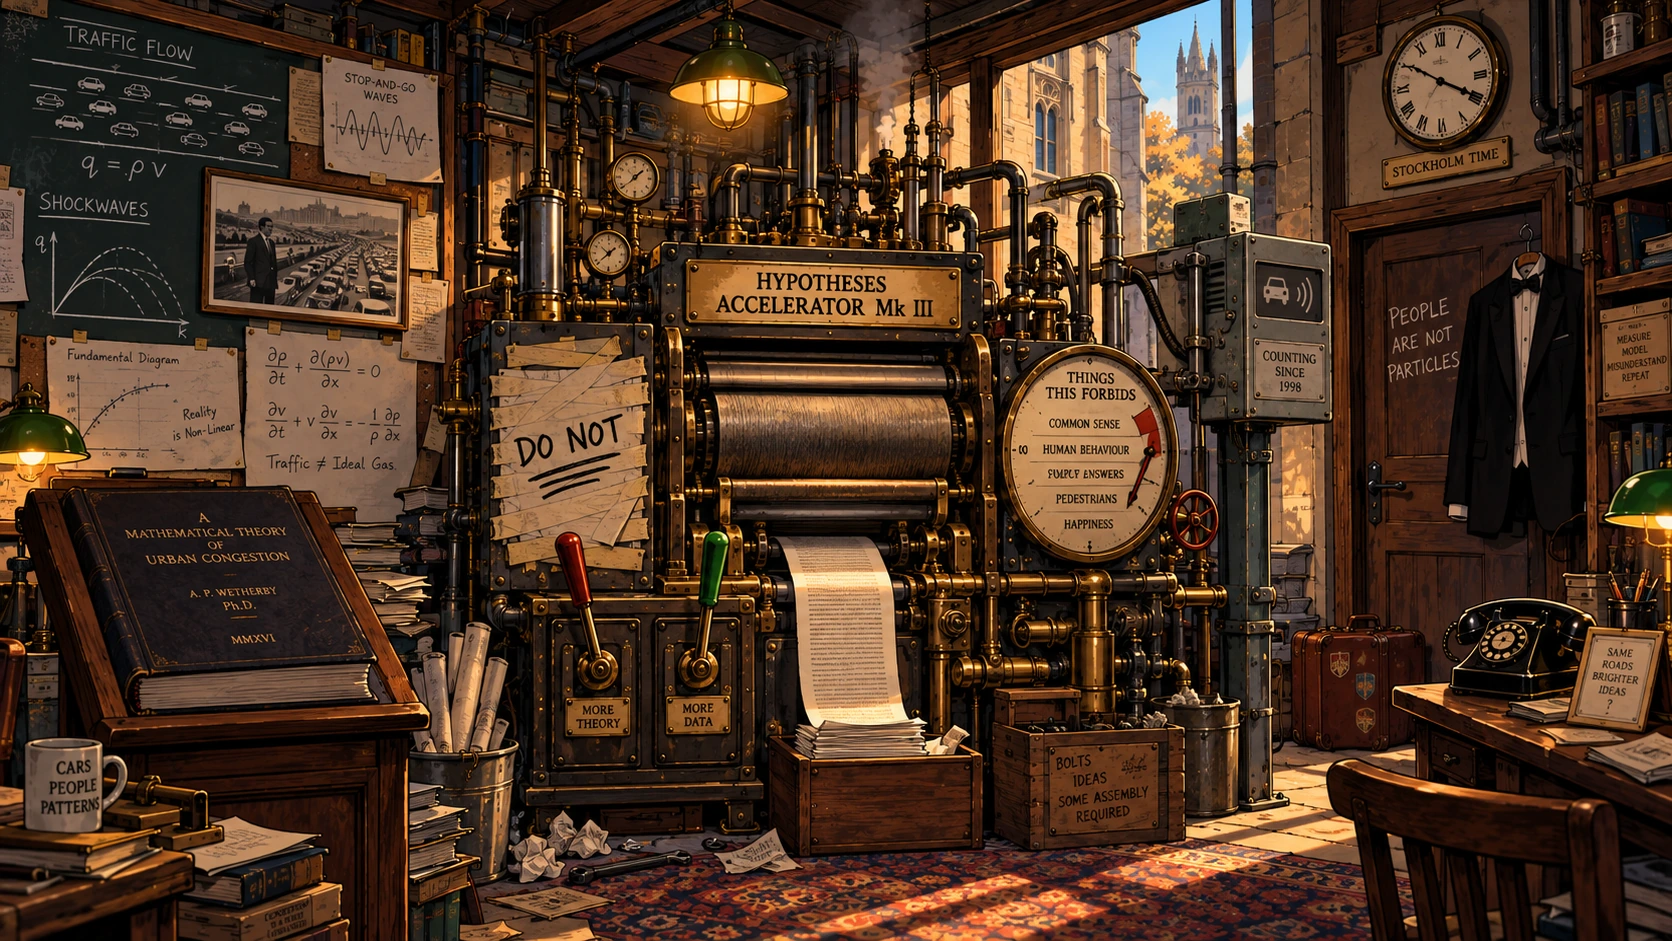
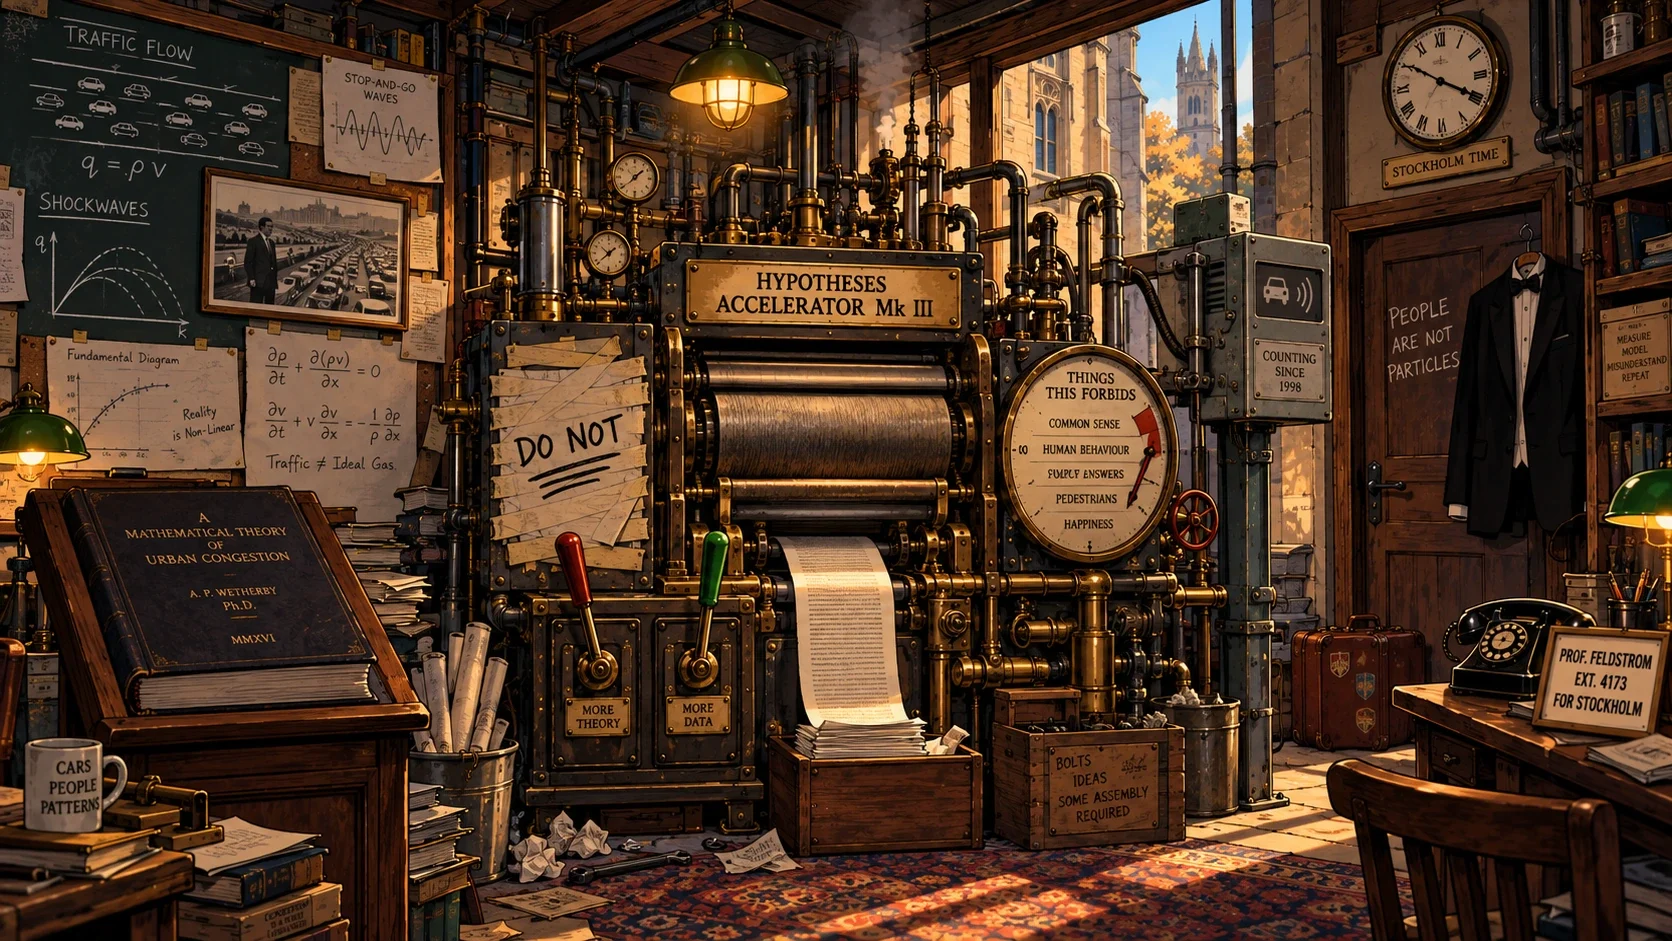
Phones: inventory folds behind a bag button so nothing at the right edge is hidden; Feldstrom's extension painted on the card by his telephone (no more door overlay) and handed over the first time you talk; your own lines are voiced in phone calls
Claude-Session: https://claude.ai/code/session_01NVbNvGwATBDeX3jSoy7jXs

Changed region(s): [[0.9019, 0.6472, 1.0, 0.8013]]

diff --git a/web/the-secret-of-the-codebook.html b/web/the-secret-of-the-codebook.html
@@ -189,6 +189,16 @@
   body.cb-touch .verb-grid{ display:none !important; }
   /* the inventory scrolls, and says so: arrows at whichever end has more (author, 2026-09-26) */
   .room-columns .side-panel{ overscroll-behavior:contain; -webkit-overflow-scrolling:touch; touch-action:pan-y; }
+  /* phones: the inventory folds away behind a bag button, so nothing at the right edge of a room
+     is ever hidden under it (author, 2026-09-26) */
+  .cb-bagbtn{ display:none; }
+  body.cb-touch .cb-bagbtn{ display:flex; position:absolute; z-index:45; right:calc(var(--bx, 0px) + .8%); top:calc(var(--by, 0px) + 13%);
+    align-items:center; gap:4px; padding:6px 10px; border-radius:999px; border:1px solid rgba(240,228,200,.35); cursor:pointer;
+    background:rgba(20,14,9,.72); color:var(--cream); font:700 13px 'JetBrains Mono', monospace; backdrop-filter:blur(4px); }
+  body.cb-touch .cb-bagbtn b{ background:#ffd24a; color:#2a1d10; border-radius:999px; padding:0 6px; font-size:11px; }
+  body.cb-touch .room-columns .side-panel{ opacity:0; pointer-events:none; transform:translateX(24px); transition:transform .22s ease, opacity .22s ease; top:calc(13% + 40px) !important; max-height:calc(87% - 48px) !important; }
+  body.cb-touch.cb-inv-open .room-columns .side-panel{ transform:none; opacity:1; pointer-events:auto; }
+  body.cb-touch.cb-inv-open .cb-bagbtn{ background:#ffd24a; color:#2a1d10; }
   .cb-invarrow{ position:sticky; z-index:3; display:none; width:100%; height:26px; border:0; margin:0; padding:0; cursor:pointer;
     color:#ffd24a; font:700 16px/26px system-ui, sans-serif; background:linear-gradient(rgba(20,14,9,.95), rgba(20,14,9,.55)); border-radius:4px; }
   .cb-invarrow.up{ top:-8px; }
@@ -2891,7 +2901,7 @@
   }
   // The actions each thing really needs, set room by room (ROADMAP 8zx; author: "only show the icons that
   // are really needed"). This table wins over the guess read off the room's code; Tobi is always Talk.
-  var ROOM_VERBS = {"whirlpool":{"prof":"talkto","penjar":"pickup","hourglass":"pickup","usb":"pickup","stamp":"pickup","glassdesk":"pickup","bingocard":"pickup","mug":"lookat","likertdie":"lookat","autograph":"lookat","shelfL":"lookat","shelfR":"lookat","frameL":"lookat","frameR":"lookat","windowL":"lookat","windowR":"lookat","skeleton":"lookat","cork":"lookat","counter":"lookat"},"lecture":{"goffman":"lookat","note":"lookat","phone":"lookat","doodle":"lookat","board":"use","ink":"pickup","prof":"talkto"},"corridor":{"note":"lookat","glass":"lookat","skeleton":"lookat","wanted":"lookat","corkboard":"lookat","chalkboard":"lookat","duck":"pickup","gatedoor":"use","bell":"use"},"pond":{"philosopher":"talkto","coleman":"lookat","plaque":"lookat","swanleft":"lookat","swanright":"lookat"},"library":{"kira":"talkto","conveyor":"lookat use","trolley":"lookat use","catalogue":"use","framed":"lookat","stacks":"lookat pickup","register":"pickup","desk":"pickup use","sign":"lookat"},"hall":{"profg":"talkto","dj":"talkto","djtable":"lookat","ladder":"pickup","dispenser":"use","meter":"use","portraits":"lookat talkto","weber":"lookat talkto","sign":"lookat","clipping":"lookat"},"workshop":{"feldstrom":"talkto","machine":"use","tape":"use","forbids":"lookat","desk":"lookat","extcard":"lookat","thesis":"lookat","diagrams":"lookat"},"seminar":{"board":"use","fellow":"talkto","chairs":"lookat","sign":"lookat"},"surveylab":{"nurse":"talkto","gurney1":"lookat","gurney2":"lookat","gurney3":"lookat","clipboard":"lookat","cabinet":"pickup","die":"pickup","board":"lookat","phone":"lookat use","sign":"lookat","window":"lookat","poster":"lookat"},"ethics":{"keeper":"talkto","chair":"talkto","rep":"talkto","tribunal":"talkto","device":"lookat","table":"pickup","calendar":"pickup","pewright":"pickup","pewleft":"lookat","plaque":"lookat","glass":"lookat"},"mensa":{"herald":"talkto","drum":"use","officer":"use","frame":"use","counters":"talkto","tables":"lookat"},"fieldwork":{"director":"talkto","host":"use","phone":"pickup","podiums":"lookat","board":"lookat","doorbusy":"lookat","doorforgot":"lookat","doorspam":"lookat","doornot":"lookat"},"statsbasement":{"switches":"use","seal":"use","skeptic":"talkto","queue":"talkto","banner":"lookat","board":"lookat","monkeydoor":"use"},"delegation":{"kira":"talkto","record":"use","queue":"talkto","lever":"use","log":"lookat","prof":"talkto"},"bureau":{"clerk":"talkto","counter":"use","conveyor":"lookat","plaques":"lookat","gauge":"lookat"},"psychlab":{"achterberg":"talkto","typist":"talkto","desk":"lookat","typewriters":"lookat","hamlet":"lookat","pinboard":"lookat","cages":"lookat","labdoor":"lookat"},"postersession":{"poster":"use","best":"lookat","posters":"lookat","bins":"lookat","banner":"lookat"},"keynote":{"screen":"lookat","vossberg":"talkto","portraits":"lookat","chat":"lookat"},"writingroom":{"feldstrom":"talkto","registrar":"talkto","kira":"talkto","table":"use","abstract":"use","impact":"lookat","phone":"lookat use"}};
+  var ROOM_VERBS = {"whirlpool":{"prof":"talkto","penjar":"pickup","hourglass":"pickup","usb":"pickup","stamp":"pickup","glassdesk":"pickup","bingocard":"pickup","mug":"lookat","likertdie":"lookat","autograph":"lookat","shelfL":"lookat","shelfR":"lookat","frameL":"lookat","frameR":"lookat","windowL":"lookat","windowR":"lookat","skeleton":"lookat","cork":"lookat","counter":"lookat"},"lecture":{"goffman":"lookat","note":"lookat","phone":"lookat","doodle":"lookat","board":"use","ink":"pickup","prof":"talkto"},"corridor":{"note":"lookat","glass":"lookat","skeleton":"lookat","wanted":"lookat","corkboard":"lookat","chalkboard":"lookat","duck":"pickup","gatedoor":"use","bell":"use"},"pond":{"philosopher":"talkto","coleman":"lookat","plaque":"lookat","swanleft":"lookat","swanright":"lookat"},"library":{"kira":"talkto","conveyor":"lookat use","trolley":"lookat use","catalogue":"use","framed":"lookat","stacks":"lookat pickup","register":"pickup","desk":"pickup use","sign":"lookat"},"hall":{"profg":"talkto","dj":"talkto","djtable":"lookat","ladder":"pickup","dispenser":"use","meter":"use","portraits":"lookat talkto","weber":"lookat talkto","sign":"lookat","clipping":"lookat"},"workshop":{"feldstrom":"talkto","machine":"use","tape":"use","forbids":"lookat","desk":"lookat","thesis":"lookat","diagrams":"lookat"},"seminar":{"board":"use","fellow":"talkto","chairs":"lookat","sign":"lookat"},"surveylab":{"nurse":"talkto","gurney1":"lookat","gurney2":"lookat","gurney3":"lookat","clipboard":"lookat","cabinet":"pickup","die":"pickup","board":"lookat","phone":"lookat use","sign":"lookat","window":"lookat","poster":"lookat"},"ethics":{"keeper":"talkto","chair":"talkto","rep":"talkto","tribunal":"talkto","device":"lookat","table":"pickup","calendar":"pickup","pewright":"pickup","pewleft":"lookat","plaque":"lookat","glass":"lookat"},"mensa":{"herald":"talkto","drum":"use","officer":"use","frame":"use","counters":"talkto","tables":"lookat"},"fieldwork":{"director":"talkto","host":"use","phone":"pickup","podiums":"lookat","board":"lookat","doorbusy":"lookat","doorforgot":"lookat","doorspam":"lookat","doornot":"lookat"},"statsbasement":{"switches":"use","seal":"use","skeptic":"talkto","queue":"talkto","banner":"lookat","board":"lookat","monkeydoor":"use"},"delegation":{"kira":"talkto","record":"use","queue":"talkto","lever":"use","log":"lookat","prof":"talkto"},"bureau":{"clerk":"talkto","counter":"use","conveyor":"lookat","plaques":"lookat","gauge":"lookat"},"psychlab":{"achterberg":"talkto","typist":"talkto","desk":"lookat","typewriters":"lookat","hamlet":"lookat","pinboard":"lookat","cages":"lookat","labdoor":"lookat"},"postersession":{"poster":"use","best":"lookat","posters":"lookat","bins":"lookat","banner":"lookat"},"keynote":{"screen":"lookat","vossberg":"talkto","portraits":"lookat","chat":"lookat"},"writingroom":{"feldstrom":"talkto","registrar":"talkto","kira":"talkto","table":"use","abstract":"use","impact":"lookat","phone":"lookat use"}};
   function verbsOf(t){
     var id = t.dataset.id || t.dataset.extra || t.dataset.zone || '';
     if (id === 'tobi') return ['talkto'];
@@ -3029,6 +3039,26 @@
     setTimeout(upd, 60); setTimeout(upd, 600);
   }
   new MutationObserver(invArrows).observe(root, { childList:true });
+  // the bag button (phones): opens and closes the inventory; picking an item or tapping the
+  // scene closes it again
+  function bagButton(){
+    if (!root.querySelector('.room-columns .side-panel') || root.querySelector('.cb-bagbtn')) return;
+    document.body.classList.remove('cb-inv-open');
+    var b = document.createElement('button'); b.className = 'cb-bagbtn'; b.title = 'Inventory';
+    function count(){ b.innerHTML = '&#127890; <b>' + root.querySelectorAll('.side-panel .side-inv-slot.filled').length + '</b>'; }
+    count(); new MutationObserver(count).observe(root.querySelector('.room-columns .side-panel'), { childList:true, subtree:true });
+    b.addEventListener('click', function(e){ e.stopPropagation(); document.body.classList.toggle('cb-inv-open'); });
+    root.appendChild(b);
+  }
+  new MutationObserver(bagButton).observe(root, { childList:true });
+  document.addEventListener('click', function(e){
+    if (!document.body.classList.contains('cb-inv-open')) return;
+    var t = e.target;
+    if (t.closest && t.closest('.cb-bagbtn, .cb-invarrow')) return;
+    if (t.closest && t.closest('.side-inv-slot.filled')){ setTimeout(function(){ document.body.classList.remove('cb-inv-open'); }, 150); return; }
+    if (t.closest && t.closest('.side-panel')) return;
+    document.body.classList.remove('cb-inv-open');
+  }, true);
 
   window.CODEBOOK_ENTER_ROOM = function(id){ enterRoom(id); };   // tools (narration sweep)
   function enterRoom(id){
@@ -3712,7 +3742,7 @@
   // Your phone's contacts: Stellmacher once you have her card, Feldstrom from Act II (his
   // extension is on the card by the Library telephone). One contact rings at once.
   function phoneContacts(){
-    var f = GAME.flags, prof = hasItem('profcard'), feld = !!(f.act2IntroSeen || f.corridorDone);
+    var f = GAME.flags, prof = hasItem('profcard'), feld = !!(f.wsExtension || f.act2IntroSeen || f.corridorDone);
     if (!(prof && feld)){ if (feld && !prof) window.CODEBOOK_CALL_FELD(); else window.CODEBOOK_CALL_PROF(); return; }
     if (callBusy) return;
     var host = [].slice.call(document.querySelectorAll('#root .scene-wrap')).filter(function(e){ return e.offsetParent; })[0];
@@ -4012,7 +4042,8 @@
   // Clicking a quoted choice: she says it. Capture phase, so this runs before the button's
   // own handler, and the reply that handler triggers queues behind her.
   document.addEventListener('click', function(e){
-    var b = e.target && e.target.closest && e.target.closest('button.choice');
+    // the phone calls' answer buttons too: you say your lines on the mobile as well (author, 2026-09-26)
+    var b = e.target && e.target.closest && e.target.closest('button.choice, .cb-call .btns button');
     if (!b) return;
     var clips = window.CODEBOOK_VO_CLIPS(b.innerHTML).filter(function(c){ return /^vo-you-/.test(c); });
     if (!clips.length) return;
@@ -9032,7 +9063,7 @@ var HOTSPOTS = [
   // Stockholm chain -- the best sequence in the act -- on examining a piece of furniture
   // that looks like scenery. It is now pinned to the door panel above the telephone, where
   // it cannot be missed. The desk still works; two ways in, no new state.
-  { id:'extcard',   label:'A card pinned to the door',  noun:'the pinned card', l:83.5, t:41.5, w:5.3, h:7.6 }
+
 ];
 CODEBOOK_REGISTER({
   id: 'workshop', act: 'Act II', title: "Feldstrom's Workshop", doneFlag: 'workshopDone',
@@ -9054,15 +9085,7 @@ CODEBOOK_REGISTER({
       '<img src="sprite-steam.webp" alt="" class="anim-steam" style="position:absolute;left:44.5%;top:19%;width:4.2%;opacity:.5;pointer-events:none;">' +
       '<img src="sprite-steam.webp" alt="" class="anim-steam" style="position:absolute;left:49.5%;top:16.5%;width:5.4%;opacity:.42;animation-delay:-1.1s;pointer-events:none;">' +
       '<img src="sprite-steam.webp" alt="" class="anim-steam" style="position:absolute;left:54%;top:20%;width:3.6%;opacity:.38;animation-delay:-2.2s;pointer-events:none;">' +
-      '<div style="position:absolute;left:84.2%;top:24.5%;width:5.3%;height:7.6%;' +
-        'transform:rotate(-2.5deg);background:#efe6cf;border:1px solid #b9a679;border-radius:2px;' +
-        'box-shadow:0 3px 8px rgba(0,0,0,.55);display:flex;flex-direction:column;align-items:center;' +
-        'justify-content:center;gap:.15em;pointer-events:none;overflow:hidden;">' +
-        '<div style="font-family:\'JetBrains Mono\',monospace;font-size:clamp(4px,.44vw,8px);' +
-          'letter-spacing:.06em;color:#6b5a42;text-transform:uppercase;">Feldstrom</div>' +
-        '<div style="font-family:\'Fraunces\',Georgia,serif;font-weight:700;' +
-          'font-size:clamp(8px,.95vw,17px);line-height:1;color:#2a1d10;">4173</div>' +
-      '</div>' }),
+      '' }),   // the extension is painted on the framed card by his telephone now (author, 2026-09-26)
   init: function(ctx){
     window.CODEBOOK_AMBIENCE('amb-office', 0.08);
     var F = ctx.hasFlag, api;
@@ -9135,14 +9158,17 @@ CODEBOOK_REGISTER({
           if (item === 'pen'){ feld('&ldquo;You wrote your mechanism with <i>that</i>?&rdquo; &mdash; &ldquo;Yes.&rdquo; &mdash; &ldquo;It has teeth marks.&rdquo; &mdash; &ldquo;The mechanism still works.&rdquo; &mdash; &ldquo;&hellip;disturbing.&rdquo;'); return; }
           if (verb === 'talkto'){
             api.clearChoices();
+            // his number, handed over the first time you talk (author: "make that easier")
+            var card = F('wsExtension') ? '' : '<div class="state-line win">He presses a card into your hand without being asked: <b>PROF. FELDSTROM &middot; EXT. 4173 &middot; FOR STOCKHOLM</b>. + Saved in your phone.</div>';
+            if (!F('wsExtension')) ctx.setFlag('wsExtension');
             if (!S.data().mechanism){
-              feld('&ldquo;Bring me a mechanism and I will make it <i>matter</i>. Not a citation. A mechanism. Nobody brings me mechanisms.&rdquo;');
+              feld('&ldquo;Bring me a mechanism and I will make it <i>matter</i>. Not a citation. A mechanism. Nobody brings me mechanisms.&rdquo;' + card);
               api.choice('&ldquo;What does the machine actually do?&rdquo;', function(){ api.clearChoices(); explainMachine(); });
               api.choice('&ldquo;Where would I get a mechanism?&rdquo;', function(){ api.clearChoices();
                 feld('&ldquo;Not here. Here is where it gets <i>bigger</i>.&rdquo; He points his pipe roughly north-east, at the wall. &ldquo;The Hall of Founders. They will offer you a quotation and they will offer you an explanation, and they will pretend those are the same object.&rdquo;<br><br>&ldquo;Which do I want?&rdquo;<br><br>&ldquo;The one that says <i>because</i>.&rdquo;'); });
               return;
             }
-            feld('&ldquo;Excuse me. I have to keep the line free.&rdquo; &mdash; &ldquo;Are you expecting someone?&rdquo; &mdash; &ldquo;Stockholm.&rdquo; &mdash; &ldquo;Right.&rdquo; &mdash; &ldquo;They tend to call around this time of year.&rdquo;');
+            feld('&ldquo;Excuse me. I have to keep the line free.&rdquo; &mdash; &ldquo;Are you expecting someone?&rdquo; &mdash; &ldquo;Stockholm.&rdquo; &mdash; &ldquo;Right.&rdquo; &mdash; &ldquo;They tend to call around this time of year.&rdquo;' + card);
             api.choice('&ldquo;What does the machine actually do?&rdquo;', function(){ api.clearChoices(); explainMachine(); });
             api.choice('Show him the mechanism', function(){
               api.clearChoices();
